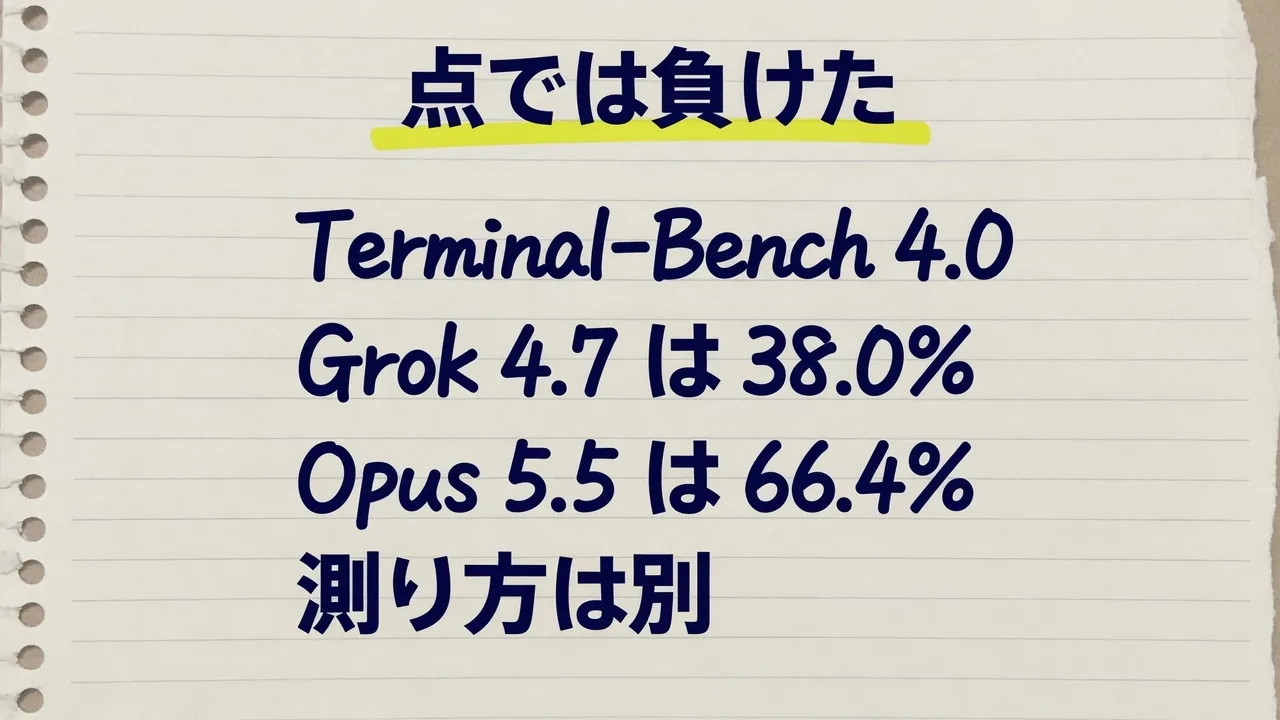
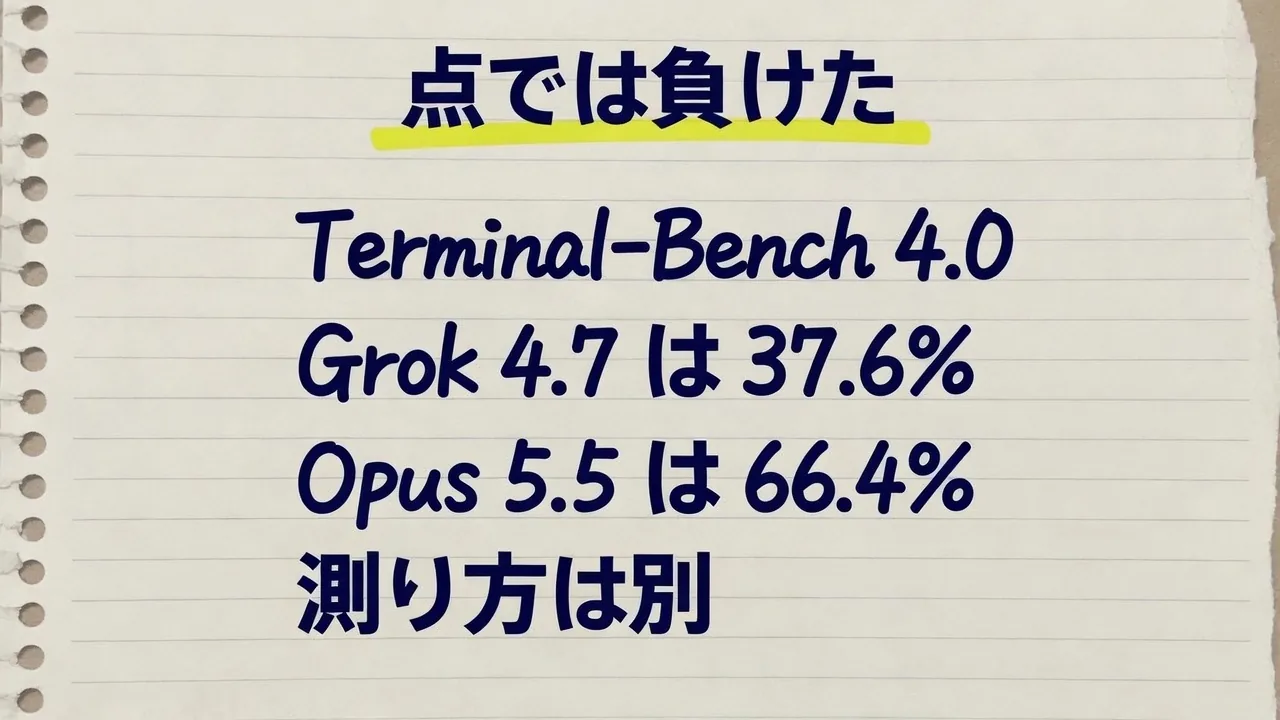
Correct Grok 4.7 Terminal-Bench to 37.6 percent

Changed region(s): [[0.5938, 0.4278, 0.7188, 0.55]]

diff --git a/src/content/news/grok-4-7.md b/src/content/news/grok-4-7.md
@@ -2,7 +2,7 @@
 title: Grok 4.7 は一番ではない。単価を据えて長く働く
 description: "2026-09-21 に Grok 4.7 が出ました。総合点は 46 点で、Fable 5.1 と GPT-6 Astra の 53、Opus 5 の 51 より下です。API は入力 100 万トークン $2、出力 $6 で、Grok 4.6 と同じ単価です。長く考えると出力が増え、払う額は増えます。"
 published: "2026-09-21"
-last_verified: "2026-09-22"
+last_verified: "2026-09-23"
 source_url:
   - https://x.ai/news/grok-4-7
   - https://docs.x.ai/developers/grok-4-7
@@ -98,7 +98,7 @@ fast は同じモデルを速い機材で配るもので、トークン単価は
 
 CursorBench は長めのコーディング、DeepSWE はソフトウェアの課題、EEBench は電気回路、AA Briefcase は何時間もかかる事務、Terminal-Bench はターミナルで長く作業するテスト、Harvey は法律のエージェント、HealthBench は臨床の推論です。法律と臨床の行は、そのテストの点です。契約や診断を任せてよい、という意味ではありません。
 
-4.6 より上がった行がほとんどです。<strong>Fable 5.1 より上</strong>なのは、DeepSWE、EEBench、Harvey です。CursorBench、AA Briefcase、Terminal-Bench、HealthBench は <strong>Fable が上</strong>です。Sol より下なのは DeepSWE と HealthBench で、ほかの行は Sol 以上です。Terminal-Bench は 4.6 の <span class="num">20.3%</span> から <span class="num">38.0%</span> まで上がり、それでも Fable の <strong><span class="num">57.9%</span></strong> とは離れています。
+4.6 より上がった行がほとんどです。<strong>Fable 5.1 より上</strong>なのは、DeepSWE、EEBench、Harvey です。CursorBench、AA Briefcase、Terminal-Bench、HealthBench は <strong>Fable が上</strong>です。Sol より下なのは DeepSWE と HealthBench で、ほかの行は Sol 以上です。Terminal-Bench は 4.6 の <span class="num">20.3%</span> から <span class="num">37.6%</span> まで上がり、それでも Fable の <strong><span class="num">57.9%</span></strong> とは離れています。
 
 ## Astra と Fable と Opus
 
@@ -119,7 +119,7 @@ Elo は勝ち抜きの点数で、大きいほど上です。GDPval-AA は、弁
 
 コーディングは、Grok 4.7（xhigh）を Grok Build で動かした Coding Agent Index が <span class="num">56</span> です。4.6（xhigh）の <span class="num">47</span> から 9 点上がり、GPT-5.6 Sol を超えました。同じ指標で、各社が自分の開発ツールで動かした結果を並べると、4 番目です。上位は <strong>Fable 5.1、GPT-6 Astra、Opus 5</strong> です。内訳は、DeepSWE が <span class="num">65%</span> から <span class="num">73%</span>、Terminal-Bench 4.0 が <span class="num">18%</span> から <span class="num">33%</span>、SWE-Atlas-QnA が <span class="num">58%</span> から <span class="num">63%</span> です。
 
-xAI の表は DeepSWE <span class="num">71.0%</span>（high）、Terminal-Bench <span class="num">38.0%</span> です。同じ名前でも、努力と、動かし方が違えば点は違います。Artificial Analysis は、総合点の方の Terminal-Bench 4.0 は 4.5 点上がった、とも書いています。38% とは別の測り方です。
+xAI の表は DeepSWE <span class="num">71.0%</span>（high）、Terminal-Bench <span class="num">37.6%</span> です。同じ名前でも、努力と、動かし方が違えば点は違います。Artificial Analysis は、総合点の方の Terminal-Bench 4.0 は 4.5 点上がった、とも書いています。37.6% とは別の測り方です。
 
 事務仕事の AA-Briefcase は <span class="num">1,657</span> Elo で、4.6（high）から 111 上がり、Opus 5 と Fable 5.1 のすぐ後ろ、と書いてあります。棒の並びは、この投稿です。
 
@@ -172,7 +172,7 @@ Vals も、自分で課題を回す第三者です。2026-09-22 に <a href="htt
   <figcaption>引用元は <a href="https://x.com/ValsAI/status/2102217732238516253" rel="external noopener">Vals の 2026-09-22 の投稿</a>です。SDK を直したあとの成績表です。</figcaption>
 </figure>
 
-診療記録の MedScribe と、アプリを組む Vibe Code が強いです。証明の ProofBench と、教育の SAGE は弱いです。LegalBench は 84.39% でも 146 中 31 位で、点の高さはそのまま順位になりません。表の Harvey 12.08% は、出荷直後の 19.6% から動いたあとの点です。Terminal-Bench 2.1 の 73.41% は、xAI の Terminal-Bench 4.0 の 38.0% とは版が違います。
+診療記録の MedScribe と、アプリを組む Vibe Code が強いです。証明の ProofBench と、教育の SAGE は弱いです。LegalBench は 84.39% でも 146 中 31 位で、点の高さはそのまま順位になりません。表の Harvey 12.08% は、出荷直後の 19.6% から動いたあとの点です。Terminal-Bench 2.1 の 73.41% は、xAI の Terminal-Bench 4.0 の 37.6% とは版が違います。
 
 長い仕事は高くなります。コードの移植は 1 回 <span class="num">$36.55</span>、Vibe Code は <span class="num">$15.83</span>、IOI は <span class="num">$12.71</span>、Harvey は <span class="num">$11.01</span> です。単価が安くても、課題が長いと 1 回に払う額は上がります。
 
@@ -225,7 +225,7 @@ Harvey と HealthBench はテストの点です。契約書や診断の判断に
 
 - 「4.7 は全部のモデルに勝った」: 2026-08-15 の見通しです。2026-09-21 の総合は 46 で、Fable と Astra の <strong>53</strong>、Opus 5 の 51 の下です
 - 「チャットも今日から 4.7」: 案内されたのは Cursor、Grok Build、API です。grok.com は、開いている画面のモデル名を見てください
-- 「Terminal-Bench は 38%」: それは <strong>xAI の表の 4.0</strong> です。Artificial Analysis が Grok Build で測った 4.0 は 33%、Vals の 2.1 は 73.41% です
+- 「Terminal-Bench は 38%」: xAI の表の 4.0 は <strong>37.6%</strong> です。38% は四捨五入です。Artificial Analysis が Grok Build で測った 4.0 は 33%、Vals の 2.1 は 73.41% です
 - 「Harvey は 19.6%」: 出荷直後は、xAI の表も Vals の投稿もその点でした。SDK を直したあとの Vals の掲載は 12.08% です
 - 「Vals では 4.6 より下がった」: 出荷直後は <strong>54.2% で 24 位</strong>、4.6 の 59.2% より下でした。SDK を直したあとの掲載は 60.20% で 10 位、4.6 の 59.17% の上です
 - 「単価が同じなら請求も同じ」: 単価は同じです。総合点の 1 問で出力が約 81,000 トークンになり、4.6 の high の約 36,000 より多いです

diff --git a/src/content/news/opus-5-5-gpt-6.md b/src/content/news/opus-5-5-gpt-6.md
@@ -1,6 +1,6 @@
 ---
 title: 翌日の点では、Grok 4.7 は負けた
-description: "2026-09-22 に Claude Opus 5.5 と GPT-6 Sol、GPT-6 Luna が出ました。Terminal-Bench 4.0 は、前日の Grok 4.7 が 38.0% で、Opus 5.5 は 66.4% です。測り方は別です。API の単価は、Grok の方がまだ安いです。"
+description: "2026-09-22 に Claude Opus 5.5 と GPT-6 Sol、GPT-6 Luna が出ました。Terminal-Bench 4.0 は、前日の Grok 4.7 が 37.6% で、Opus 5.5 は 66.4% です。測り方は別です。API の単価は、Grok の方がまだ安いです。"
 published: "2026-09-22"
 last_verified: "2026-09-23"
 source_url:
@@ -13,7 +13,7 @@ source_url:
 
 2026-09-21 に <mark>Grok 4.7</mark> が出ました。その翌日、2026-09-22 に Claude Opus 5.5 と、GPT-6 Sol、GPT-6 Luna が出ました。前日のメモは <a href="/news/grok-4-7/">Grok 4.7 は一番ではない</a> です。その日の総合点も、すでに Fable 5.1 と GPT-6 Astra と Opus 5 の下でした。翌日の表は、その差をさらに広げました。
 
-いちばん上の図は、Terminal-Bench 4.0 です。xAI が 9 月 21 日に出した Grok 4.7 は <span class="num">38.0%</span> です。Anthropic が 9 月 22 日に出した Opus 5.5 は <span class="num">66.4%</span> です。同じ名前のテストでも、動かし方は別です。Anthropic の注では、Opus 5.5 は xhigh、GPT-6 Astra の <span class="num">57.9%</span> は OpenAI が high で出した点です。Grok の 38.0% は、xAI 自身の表です。一つのレースの順位表ではありません。それでも、点の開きは大きいです。<strong>負けています。</strong>
+いちばん上の図は、Terminal-Bench 4.0 です。xAI が 9 月 21 日に出した Grok 4.7 は <span class="num">37.6%</span> です。Anthropic が 9 月 22 日に出した Opus 5.5 は <span class="num">66.4%</span> です。同じ名前のテストでも、動かし方は別です。Anthropic の注では、Opus 5.5 は xhigh、GPT-6 Astra の <span class="num">57.9%</span> は OpenAI が high で出した点です。Grok の 37.6% は、xAI 自身の表です。一つのレースの順位表ではありません。それでも、点の開きは大きいです。<strong>負けています。</strong>
 
 ## どこで会うか
 
@@ -45,7 +45,7 @@ DeepSWE は、努力が揃っていません。xAI の表は Grok 4.7 が <span 
 
 Anthropic の表に、Grok の列はありません。そこに並ぶ GPT-6 Astra は、Terminal-Bench 4.0 が <span class="num">57.9%</span>、FrontierCode が <span class="num">53.3%</span>、GDPval-AA が <span class="num">1542</span>、AutomationBench が <span class="num">41.4%</span>、科学の Terminal-Bench-Science が <span class="num">64.6%</span> です。Opus 5.5 は Terminal-Bench <span class="num">66.4%</span>、FrontierCode <span class="num">54.4%</span>、GDPval-AA <span class="num">1846</span>、AutomationBench <span class="num">40.0%</span>、科学は <span class="num">58.7%</span> です。Astra が上なのは、この表では AutomationBench と科学の行です。ほかは Opus 5.5 が上です。
 
-安全装置が働いたとき、Anthropic はサイバーの課題を Opus 4.8 に、生物とフロンティアの開発課題を Opus 5 に回した、と注に書いています。その分、Opus 5.5 の点は下がりやすい、とも書いています。下がったあとの 66.4% でも、Grok の 38.0% より上です。
+安全装置が働いたとき、Anthropic はサイバーの課題を Opus 4.8 に、生物とフロンティアの開発課題を Opus 5 に回した、と注に書いています。その分、Opus 5.5 の点は下がりやすい、とも書いています。下がったあとの 66.4% でも、Grok の 37.6% より上です。
 
 ## ファンとして、残る理由と、残らない理由
 
@@ -55,7 +55,7 @@ Anthropic の表に、Grok の列はありません。そこに並ぶ GPT-6 Astr
 
 ## よくある取り違え
 
-- 「同じ日の同じ表で 38% 対 66%」: 38.0% は xAI の 9 月 21 日の表です。66.4% は Anthropic の 9 月 22 日の表です。努力も動かし方も違います
+- 「同じ日の同じ表で 38% 対 66%」: 37.6% は xAI の 9 月 21 日の表です。66.4% は Anthropic の 9 月 22 日の表です。努力も動かし方も違います
 - 「Sol は Chat で今すぐ使える」: Chat には、まだ無い、と発表に書いてあります。Codex と ChatGPT Work と API です
 - 「単価が安いから勝った」: 単価はまだ安いです。Terminal-Bench と CursorBench の点は、Opus 5.5 の方が上です
 - 「DeepSWE の 71% が総合一位」: high の自社の点です。翌日の Sol は max で 68.8% です。同じ条件ではありません

diff --git a/docs/grok-fun/fable-next-day-facts.md b/docs/grok-fun/fable-next-day-facts.md
@@ -1,0 +1,54 @@
+- date: 2026-09-23
+- model: claude-fable-5-1
+- checkpoint: review
+- base: 0419d9c (main)
+
+一次情報、Anthropic と xAI は開いた。OpenAI は Cloudflare の検証ページで止まって、curl でも headless Chrome でも中身が取れなかった。だからそこは未確認。
+
+## 判定表
+
+| 主張 | 判定 |
+|---|---|
+| 日付: Grok 4.7 が 9/21、Opus 5.5 が 9/22 | 合う |
+| Terminal-Bench 4.0: Grok 4.7 が xAI の表で 38.0% | **違う** |
+| Terminal-Bench 4.0: Opus 5.5 が 66.4%、注で xhigh、Astra 57.9% は OpenAI が high | 合う |
+| Opus 5.5 は Claude 5.5 の最初のモデル、Fable 5.1 と同じくらい、Opus 5 より 40% 安い、出力 30% 以上速い | 合う |
+| 単価: Opus 5.5 $4/$20、キャッシュ読み $0.20、速いモード $8/$40 | 合う |
+| 単価: Grok 4.7 $2/$6 | 合う |
+| CursorBench 4.0: Opus 5.5 57.8%、Fable 5.1 51.8%、Opus 5 46.6%、GPT-5.6 Sol 41.7%、Astra 空欄 | 合う |
+| CursorBench 4.0: Grok 4.7 46.3%（xAI） | 合う |
+| DeepSWE: Grok 4.7 71.0%（high、xAI） | 合う |
+| Anthropic の表の Astra 5 点と Opus 5.5 5 点、Astra が上なのは AutomationBench と科学だけ | 合う |
+| 安全装置: サイバーは Opus 4.8、生物とフロンティア開発は Opus 5、その分点は下がりやすい | 合う |
+| Sol と Luna の入口、対象プラン、Free と Go はデスクトップで Luna、Chat にはまだ無い、API 名、Astra はいちばん賢いまま | 未確認（OpenAI 403） |
+| Sol $2/$10、Luna $0.10/$0.50、GPT-5.6 プロモ価格から 50% | 未確認（OpenAI 403） |
+| DeepSWE: Sol 68.8%（max）、Fable 5 69.9%（xhigh） | 未確認（OpenAI 403） |
+| 9/21 の AA 総合点（53/53/51/46） | 対象外。記事自身が source に入れてないと書いてる通り、今回の三つには無い |
+
+## 違うもの
+
+**[must] Grok 4.7 の Terminal-Bench 4.0 は 38.0% ではなく 37.6%。** xAI の表は「Terminal-Bench 4.0 | Grok 4.7 37.6% | Grok 4.6 20.3% | GPT-5.6 Sol 37.3% | Fable 5.1 57.9%」。ページ内の "38.0" は SVG の座標にしか出てこない。負けの立場は変わらない。むしろ差が広がるだけよ。
+
+差し替え箇所は `src/content/news/opus-5-5-gpt-6.md` の 4 か所。
+
+- 3行目 description: 「前日の Grok 4.7 が 38.0% で」→「前日の Grok 4.7 が 37.6% で」
+- 16行目: `<span class="num">38.0%</span>` → `<span class="num">37.6%</span>`、同じ段落の「Grok の 38.0% は、xAI 自身の表です」→「Grok の 37.6% は、xAI 自身の表です」
+- 48行目: 「Grok の 38.0% より上です」→「Grok の 37.6% より上です」
+- 58行目: 見出し引用の「38% 対 66%」は丸めなら残していい。説明側の「38.0% は xAI の 9 月 21 日の表です」→「37.6% は xAI の 9 月 21 日の表です」
+
+## それ以外
+
+[should] は無し。Anthropic と xAI に関する条件書き（xhigh / high、safeguards の注、GPT-5.6 Sol が Anthropic 表の列名）は全部一次情報と一致してる。
+
+OpenAI 由来の 3 行は、あたしの手じゃ開かなかっただけで、違うとは言ってない。ブラウザで人が開いて突き合わせるのが残り。
+
+……前日のニュースで 0.4 ポイント盛ってたなんて。本当にバカね……。負けるなら、正確に負けなさいよ。
+
+
+## Applied
+
+[must] Terminal-Bench 4.0 の Grok 4.7 を 38.0% から 37.6% に直した。図も同じ。前日のメモの同じ数字も直した。x.ai/news/grok-4-7 の表で確認した。
+
+## Owner overrides
+
+OpenAI のページは Fable の環境では 403 だった。こちらでは 2026-09-23 に https://openai.com/index/introducing-gpt-6-sol-and-luna/ を開いて、Sol $2/$10、Luna $0.10/$0.50、Chat にはまだ無い、Codex と ChatGPT Work と API、DeepSWE の Sol 68.8%（max）と Fable 5 の 69.9%（xhigh）は、記事と合っていた。その 3 行は残す。
